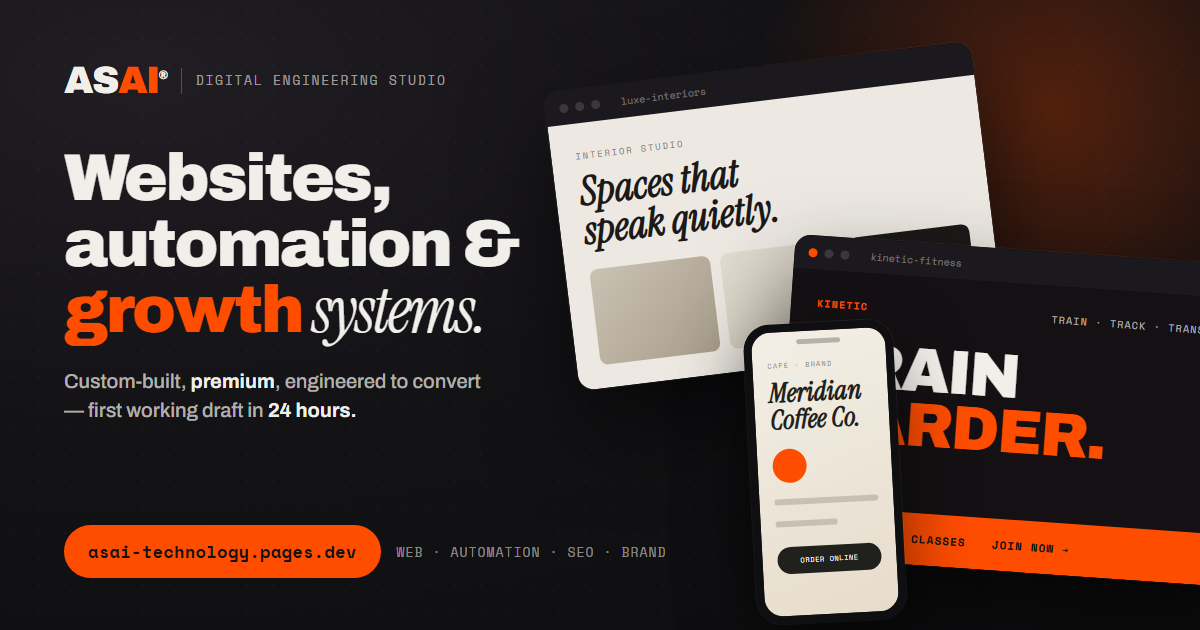
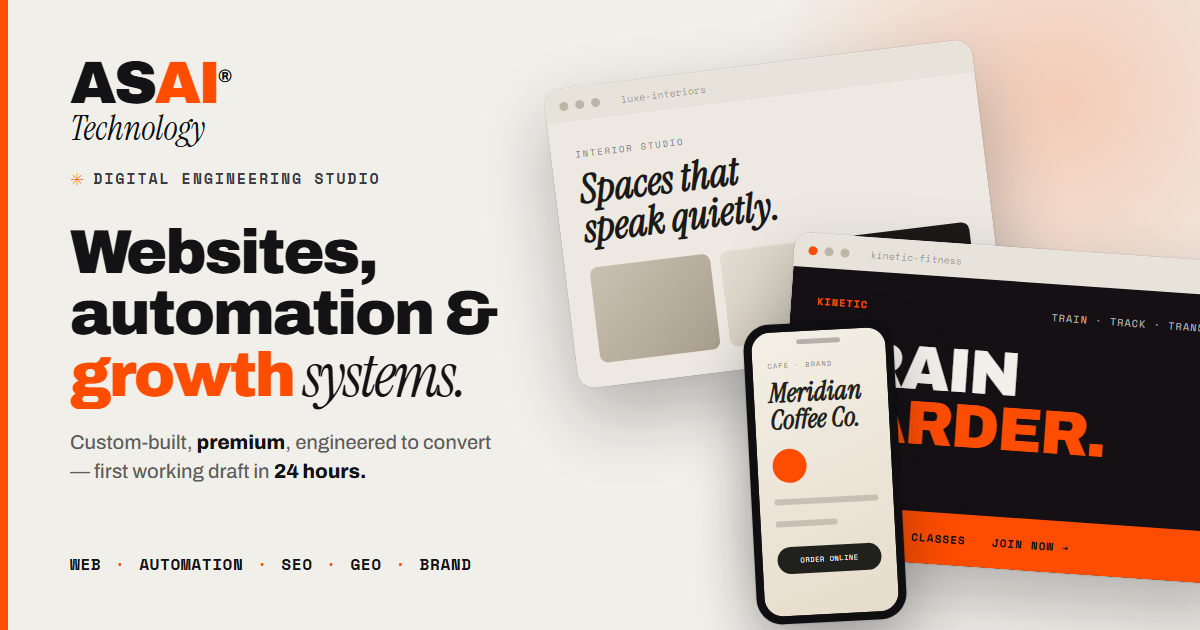
Beige OG image with ASAI/Technology lockup, GEO tag, readable fonts, no URL; cache v3

diff --git a/brand-identity-design.html b/brand-identity-design.html
@@ -13,7 +13,7 @@
 <meta property="og:title" content="A Logo Is Not a Brand: Identity Systems That Scale">
 <meta property="og:description" content="Why identity systems — logo, color, type, templates, rules — beat one-off logos for growing businesses.">
 <meta property="og:url" content="https://asai-technology.pages.dev/brand-identity-design">
-<meta property="og:image" content="https://asai-technology.pages.dev/og-image.png?v=2">
+<meta property="og:image" content="https://asai-technology.pages.dev/og-image.png?v=3">
 <meta name="twitter:card" content="summary_large_image">
 <script type="application/ld+json">
 {
@@ -21,11 +21,11 @@
   "@type": "Article",
   "headline": "A Logo Is Not a Brand: Identity Systems That Scale",
   "description": "Why identity systems — logo, color, type, templates, rules — beat one-off logos for growing businesses.",
-  "image": "https://asai-technology.pages.dev/og-image.png?v=2",
+  "image": "https://asai-technology.pages.dev/og-image.png?v=3",
   "datePublished": "2026-07-13",
   "dateModified": "2026-07-14",
   "author": { "@type": "Organization", "name": "ASAI Technology", "url": "https://asai-technology.pages.dev/" },
-  "publisher": { "@type": "Organization", "name": "ASAI Technology", "logo": { "@type": "ImageObject", "url": "https://asai-technology.pages.dev/og-image.png?v=2" } },
+  "publisher": { "@type": "Organization", "name": "ASAI Technology", "logo": { "@type": "ImageObject", "url": "https://asai-technology.pages.dev/og-image.png?v=3" } },
   "mainEntityOfPage": "https://asai-technology.pages.dev/brand-identity-design"
 }
 </script>

diff --git a/custom-website-development.html b/custom-website-development.html
@@ -13,7 +13,7 @@
 <meta property="og:title" content="Custom Website Development: Why Hand-Coded Sites Beat Templates">
 <meta property="og:description" content="Load time, SEO ceilings and lock-in — the real cost of template builders, and what custom development changes.">
 <meta property="og:url" content="https://asai-technology.pages.dev/custom-website-development">
-<meta property="og:image" content="https://asai-technology.pages.dev/og-image.png?v=2">
+<meta property="og:image" content="https://asai-technology.pages.dev/og-image.png?v=3">
 <meta name="twitter:card" content="summary_large_image">
 <script type="application/ld+json">
 {
@@ -21,11 +21,11 @@
   "@type": "Article",
   "headline": "Custom Website Development: Why Hand-Coded Sites Beat Templates",
   "description": "Load time, SEO ceilings and lock-in — the real cost of template builders, and what custom development changes.",
-  "image": "https://asai-technology.pages.dev/og-image.png?v=2",
+  "image": "https://asai-technology.pages.dev/og-image.png?v=3",
   "datePublished": "2026-07-13",
   "dateModified": "2026-07-14",
   "author": { "@type": "Organization", "name": "ASAI Technology", "url": "https://asai-technology.pages.dev/" },
-  "publisher": { "@type": "Organization", "name": "ASAI Technology", "logo": { "@type": "ImageObject", "url": "https://asai-technology.pages.dev/og-image.png?v=2" } },
+  "publisher": { "@type": "Organization", "name": "ASAI Technology", "logo": { "@type": "ImageObject", "url": "https://asai-technology.pages.dev/og-image.png?v=3" } },
   "mainEntityOfPage": "https://asai-technology.pages.dev/custom-website-development"
 }
 </script>

diff --git a/social-media-marketing-system.html b/social-media-marketing-system.html
@@ -13,7 +13,7 @@
 <meta property="og:title" content="Stop Posting Randomly: Build a Social Media System Instead">
 <meta property="og:description" content="Content calendars, branded templates and profile builds — growth on a schedule, not on motivation.">
 <meta property="og:url" content="https://asai-technology.pages.dev/social-media-marketing-system">
-<meta property="og:image" content="https://asai-technology.pages.dev/og-image.png?v=2">
+<meta property="og:image" content="https://asai-technology.pages.dev/og-image.png?v=3">
 <meta name="twitter:card" content="summary_large_image">
 <script type="application/ld+json">
 {
@@ -21,11 +21,11 @@
   "@type": "Article",
   "headline": "Stop Posting Randomly: Build a Social Media System Instead",
   "description": "Content calendars, branded templates and profile builds — growth on a schedule, not on motivation.",
-  "image": "https://asai-technology.pages.dev/og-image.png?v=2",
+  "image": "https://asai-technology.pages.dev/og-image.png?v=3",
   "datePublished": "2026-07-13",
   "dateModified": "2026-07-14",
   "author": { "@type": "Organization", "name": "ASAI Technology", "url": "https://asai-technology.pages.dev/" },
-  "publisher": { "@type": "Organization", "name": "ASAI Technology", "logo": { "@type": "ImageObject", "url": "https://asai-technology.pages.dev/og-image.png?v=2" } },
+  "publisher": { "@type": "Organization", "name": "ASAI Technology", "logo": { "@type": "ImageObject", "url": "https://asai-technology.pages.dev/og-image.png?v=3" } },
   "mainEntityOfPage": "https://asai-technology.pages.dev/social-media-marketing-system"
 }
 </script>

diff --git a/technical-seo-guide.html b/technical-seo-guide.html
@@ -13,7 +13,7 @@
 <meta property="og:title" content="The Technical SEO Checklist Indian Businesses Actually Need">
 <meta property="og:description" content="Speed, indexing, local SEO and structured data — the fundamentals that compound month over month.">
 <meta property="og:url" content="https://asai-technology.pages.dev/technical-seo-guide">
-<meta property="og:image" content="https://asai-technology.pages.dev/og-image.png?v=2">
+<meta property="og:image" content="https://asai-technology.pages.dev/og-image.png?v=3">
 <meta name="twitter:card" content="summary_large_image">
 <script type="application/ld+json">
 {
@@ -21,11 +21,11 @@
   "@type": "Article",
   "headline": "The Technical SEO Checklist Indian Businesses Actually Need",
   "description": "Speed, indexing, local SEO and structured data — the fundamentals that compound month over month.",
-  "image": "https://asai-technology.pages.dev/og-image.png?v=2",
+  "image": "https://asai-technology.pages.dev/og-image.png?v=3",
   "datePublished": "2026-07-13",
   "dateModified": "2026-07-14",
   "author": { "@type": "Organization", "name": "ASAI Technology", "url": "https://asai-technology.pages.dev/" },
-  "publisher": { "@type": "Organization", "name": "ASAI Technology", "logo": { "@type": "ImageObject", "url": "https://asai-technology.pages.dev/og-image.png?v=2" } },
+  "publisher": { "@type": "Organization", "name": "ASAI Technology", "logo": { "@type": "ImageObject", "url": "https://asai-technology.pages.dev/og-image.png?v=3" } },
   "mainEntityOfPage": "https://asai-technology.pages.dev/technical-seo-guide"
 }
 </script>

diff --git a/index.html b/index.html
@@ -13,13 +13,13 @@
 <meta property="og:title" content="ASAI Technology — Websites, automation & growth systems">
 <meta property="og:description" content="Premium websites, business automation, SEO and growth systems — first working draft in 24 hours.">
 <meta property="og:url" content="https://asai-technology.pages.dev/">
-<meta property="og:image" content="https://asai-technology.pages.dev/og-image.png?v=2">
+<meta property="og:image" content="https://asai-technology.pages.dev/og-image.png?v=3">
 <meta property="og:image:width" content="1200">
 <meta property="og:image:height" content="630">
 <meta name="twitter:card" content="summary_large_image">
 <meta name="twitter:title" content="ASAI Technology — Websites, automation & growth systems">
 <meta name="twitter:description" content="Premium websites, business automation, SEO and growth systems — first working draft in 24 hours.">
-<meta name="twitter:image" content="https://asai-technology.pages.dev/og-image.png?v=2">
+<meta name="twitter:image" content="https://asai-technology.pages.dev/og-image.png?v=3">
 <link href="https://fonts.googleapis.com/css2?family=Archivo:wght@500;600;700;900&family=Instrument+Serif:ital@0;1&display=swap" rel="stylesheet">
 <style>
   :root { --paper:#F3F1EB; --ink:#141316; --ink60:rgba(20,19,22,0.6); --ink40:rgba(20,19,22,0.4);

diff --git a/pricing.html b/pricing.html
@@ -13,7 +13,7 @@
 <meta property="og:title" content="Pricing — ASAI Technology®">
 <meta property="og:description" content="Transparent website packages from ₹4,999 — instant invoice, final draft in 24 hours.">
 <meta property="og:url" content="https://asai-technology.pages.dev/pricing">
-<meta property="og:image" content="https://asai-technology.pages.dev/og-image.png?v=2">
+<meta property="og:image" content="https://asai-technology.pages.dev/og-image.png?v=3">
 <meta name="twitter:card" content="summary_large_image">
 <script type="application/ld+json">
 {